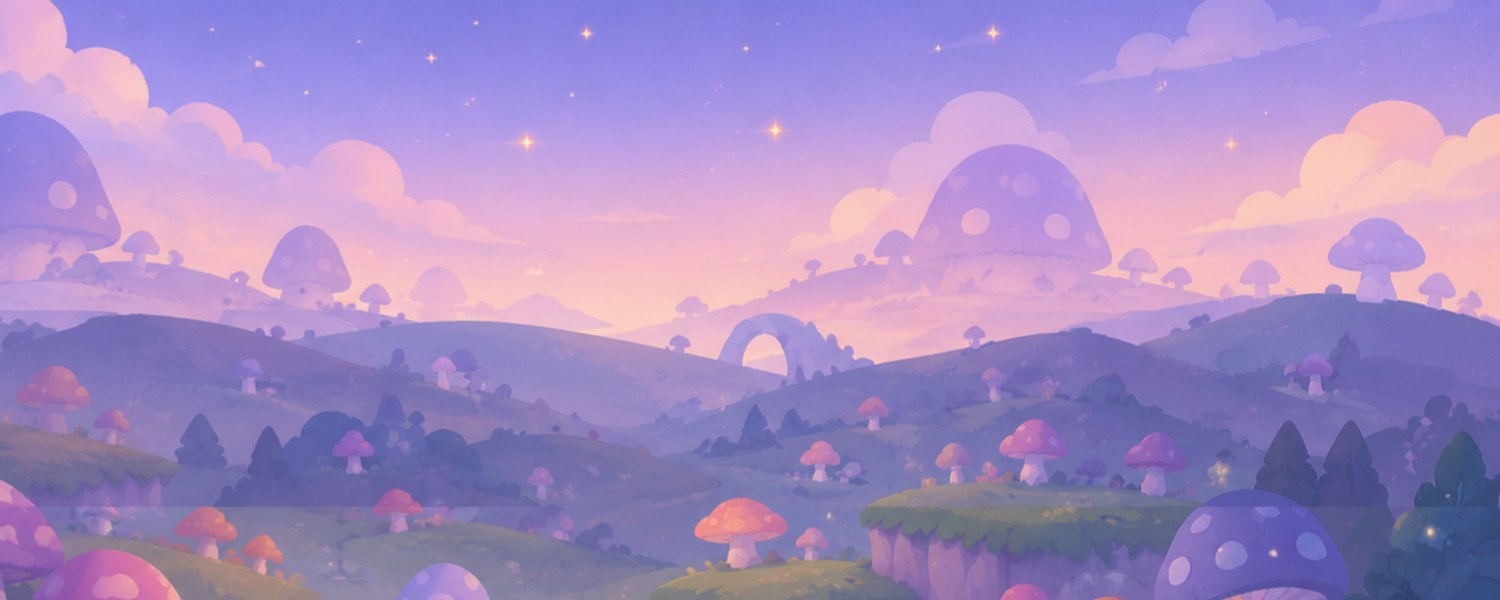
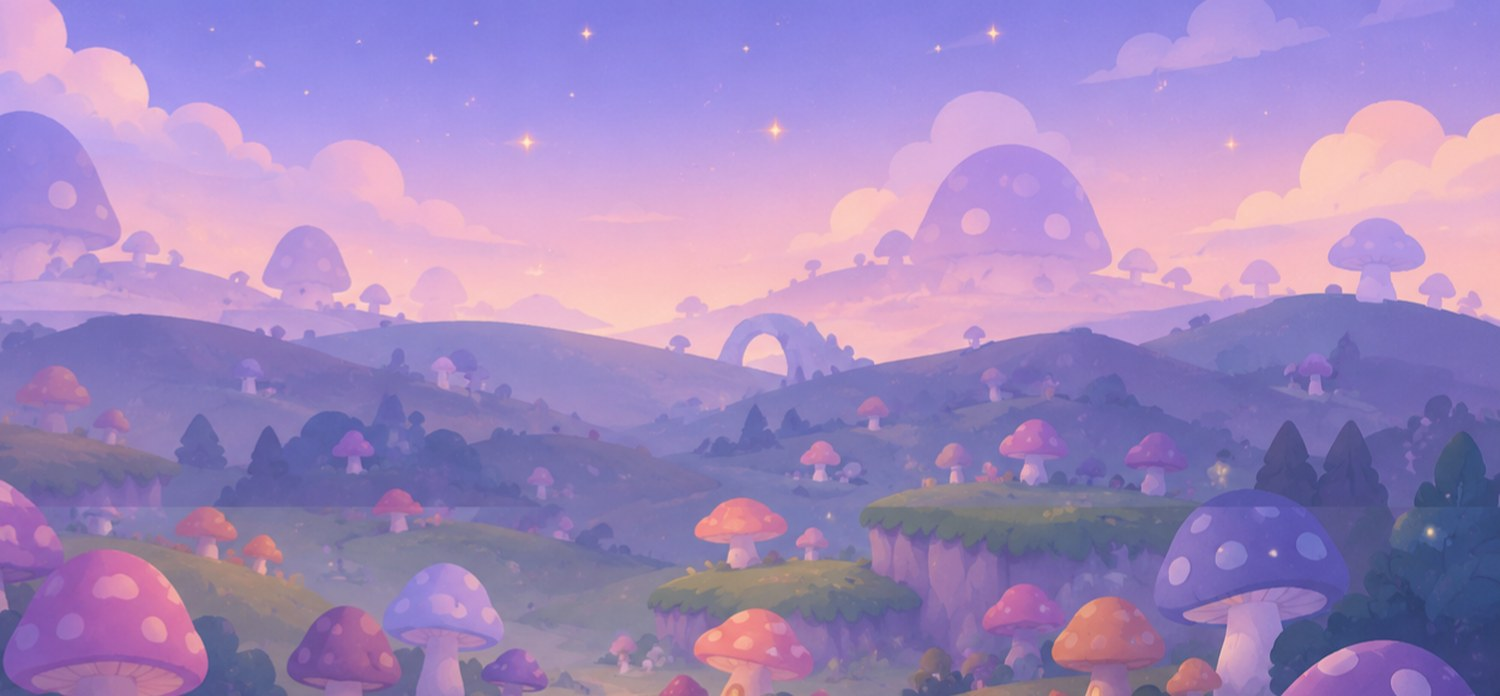
Show more of the painted hills
Claude-Session: https://claude.ai/code/session_019v8WeJ6PFisWH7i3ZPPzct

diff --git a/app/src/main/java/com/razedragon/tinylab/GameView.kt b/app/src/main/java/com/razedragon/tinylab/GameView.kt
@@ -2542,7 +2542,7 @@ class GameView(context: Context) : View(context) {
 
         // Moonlit Meadow uses the painted backdrop: mushroom hills that pan gently as you swipe
         val painted = if (lab.theme == 0) meadowBg() else null
-        val paintBottom = hz + height * 0.2f
+        val paintBottom = hz + height * 0.27f
         if (painted != null) {
             val sc = paintBottom / painted.height
             val iw = painted.width * sc
@@ -2580,10 +2580,10 @@ class GameView(context: Context) : View(context) {
         val gb = navTop
         if (painted != null) {
             val far = MEADOW_FAR; val near = MEADOW_NEAR
-            fill.shader = LinearGradient(0f, hz + height * 0.07f, 0f, gb,
+            fill.shader = LinearGradient(0f, hz + height * 0.1f, 0f, gb,
                 intArrayOf(Color.argb(0, Color.red(far), Color.green(far), Color.blue(far)), far, near),
-                floatArrayOf(0f, (paintBottom - hz - height * 0.07f) / (gb - hz - height * 0.07f), 1f), Shader.TileMode.CLAMP)
-            c.drawRect(0f, hz + height * 0.07f, w, gb, fill)
+                floatArrayOf(0f, (paintBottom - hz - height * 0.1f) / (gb - hz - height * 0.1f), 1f), Shader.TileMode.CLAMP)
+            c.drawRect(0f, hz + height * 0.1f, w, gb, fill)
         } else {
             fill.shader = LinearGradient(0f, hz, 0f, gb, th.groundFar, th.groundNear, Shader.TileMode.CLAMP)
             c.drawRect(0f, hz, w, gb, fill)
